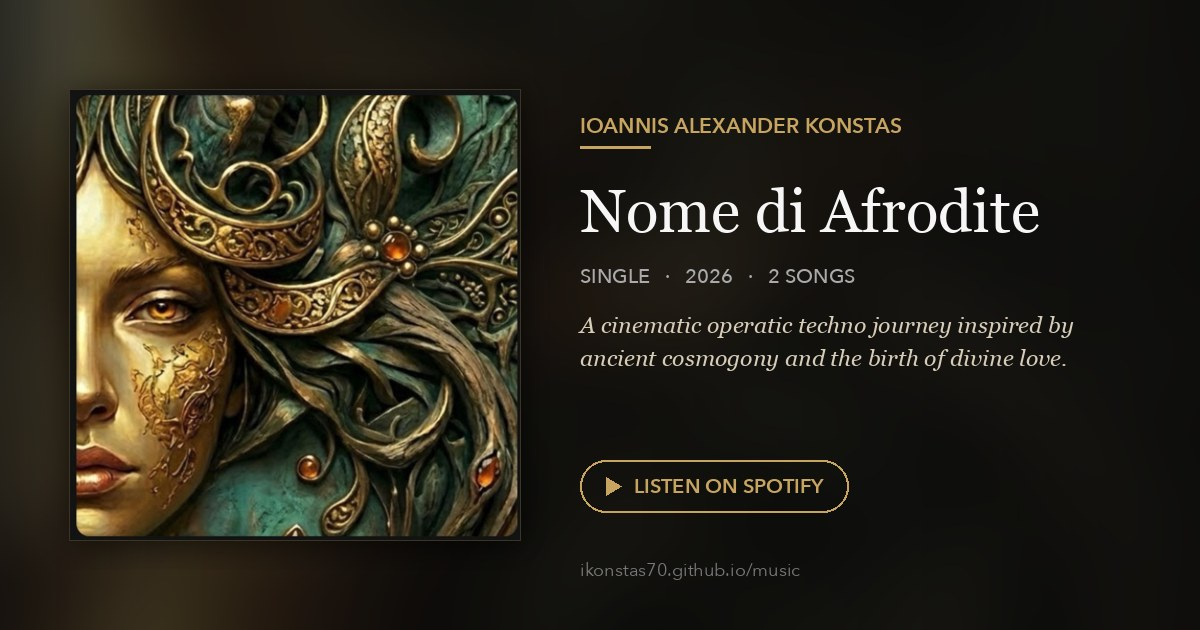
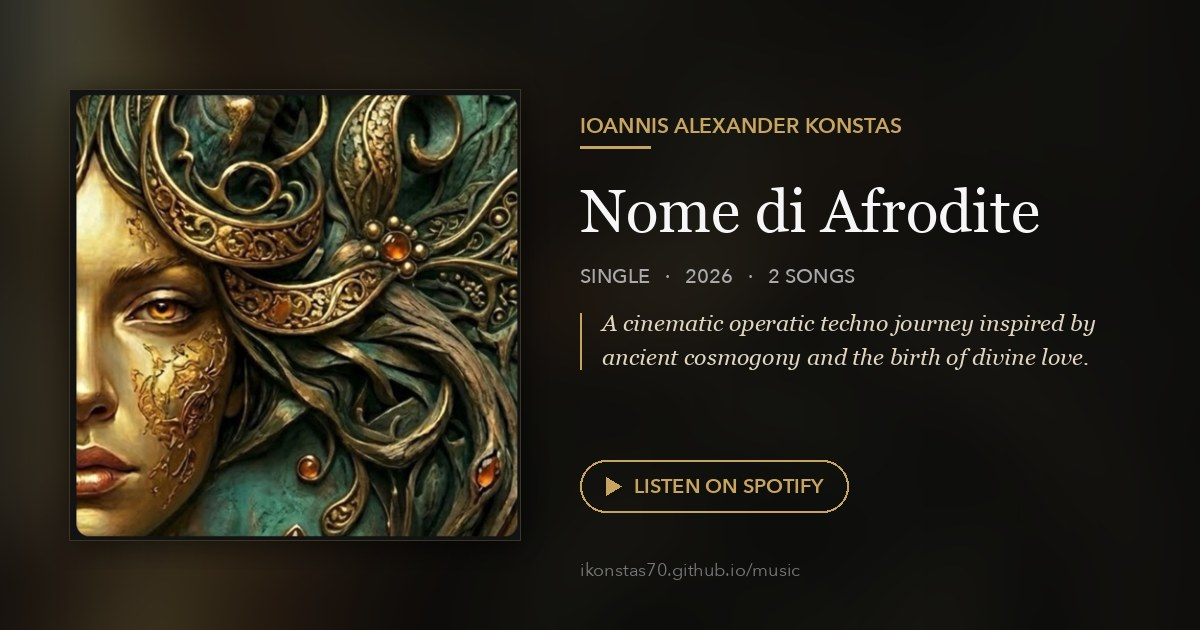
Nome di Afrodite card: gold rule beside the description

Changed region(s): [[0.4625, 0.4825, 0.925, 0.6032]]

diff --git a/tracks/o-amore-baroque-inspired--nome-di-afrodite.html b/tracks/o-amore-baroque-inspired--nome-di-afrodite.html
@@ -12,8 +12,8 @@
 <meta property="og:url" content="https://ikonstas70.github.io/music/tracks/o-amore-baroque-inspired--nome-di-afrodite.html">
 <meta property="og:title" content="O Amore - Baroque Inspired — Ioannis Alexander Konstas">
 <meta property="og:description" content="A cinematic operatic techno journey inspired by ancient cosmogony and the birth of divine love. O Amore - Baroque Inspired by Ioannis Alexander Konstas — stream on Spotify.">
-<meta property="og:image" content="https://ikonstas70.github.io/music/share/tracks/o-amore-baroque-inspired--nome-di-afrodite.jpg?v=2">
-<meta property="og:image:secure_url" content="https://ikonstas70.github.io/music/share/tracks/o-amore-baroque-inspired--nome-di-afrodite.jpg?v=2">
+<meta property="og:image" content="https://ikonstas70.github.io/music/share/tracks/o-amore-baroque-inspired--nome-di-afrodite.jpg?v=3">
+<meta property="og:image:secure_url" content="https://ikonstas70.github.io/music/share/tracks/o-amore-baroque-inspired--nome-di-afrodite.jpg?v=3">
 <meta property="og:image:type" content="image/jpeg">
 <meta property="og:image:width" content="1200">
 <meta property="og:image:height" content="630">
@@ -22,7 +22,7 @@
 <meta name="twitter:card" content="summary_large_image">
 <meta name="twitter:title" content="O Amore - Baroque Inspired — Ioannis Alexander Konstas">
 <meta name="twitter:description" content="A cinematic operatic techno journey inspired by ancient cosmogony and the birth of divine love. O Amore - Baroque Inspired by Ioannis Alexander Konstas — stream on Spotify.">
-<meta name="twitter:image" content="https://ikonstas70.github.io/music/share/tracks/o-amore-baroque-inspired--nome-di-afrodite.jpg?v=2">
+<meta name="twitter:image" content="https://ikonstas70.github.io/music/share/tracks/o-amore-baroque-inspired--nome-di-afrodite.jpg?v=3">
 
 <link rel="stylesheet" href="/music/style.css">
 </head>

diff --git a/tracks/o-amore-nome-di-afrodite.html b/tracks/o-amore-nome-di-afrodite.html
@@ -12,8 +12,8 @@
 <meta property="og:url" content="https://ikonstas70.github.io/music/tracks/o-amore-nome-di-afrodite.html">
 <meta property="og:title" content="O Amore (Nome di Afrodite) — Ioannis Alexander Konstas">
 <meta property="og:description" content="A cinematic operatic techno journey inspired by ancient cosmogony and the birth of divine love. O Amore (Nome di Afrodite) by Ioannis Alexander Konstas — stream on Spotify.">
-<meta property="og:image" content="https://ikonstas70.github.io/music/share/tracks/o-amore-nome-di-afrodite.jpg?v=2">
-<meta property="og:image:secure_url" content="https://ikonstas70.github.io/music/share/tracks/o-amore-nome-di-afrodite.jpg?v=2">
+<meta property="og:image" content="https://ikonstas70.github.io/music/share/tracks/o-amore-nome-di-afrodite.jpg?v=3">
+<meta property="og:image:secure_url" content="https://ikonstas70.github.io/music/share/tracks/o-amore-nome-di-afrodite.jpg?v=3">
 <meta property="og:image:type" content="image/jpeg">
 <meta property="og:image:width" content="1200">
 <meta property="og:image:height" content="630">
@@ -22,7 +22,7 @@
 <meta name="twitter:card" content="summary_large_image">
 <meta name="twitter:title" content="O Amore (Nome di Afrodite) — Ioannis Alexander Konstas">
 <meta name="twitter:description" content="A cinematic operatic techno journey inspired by ancient cosmogony and the birth of divine love. O Amore (Nome di Afrodite) by Ioannis Alexander Konstas — stream on Spotify.">
-<meta name="twitter:image" content="https://ikonstas70.github.io/music/share/tracks/o-amore-nome-di-afrodite.jpg?v=2">
+<meta name="twitter:image" content="https://ikonstas70.github.io/music/share/tracks/o-amore-nome-di-afrodite.jpg?v=3">
 
 <link rel="stylesheet" href="/music/style.css">
 </head>

diff --git a/albums/nome-di-afrodite.html b/albums/nome-di-afrodite.html
@@ -12,8 +12,8 @@
 <meta property="og:url" content="https://ikonstas70.github.io/music/albums/nome-di-afrodite.html">
 <meta property="og:title" content="Nome di Afrodite — Ioannis Alexander Konstas">
 <meta property="og:description" content="A cinematic operatic techno journey inspired by ancient cosmogony and the birth of divine love. Single by Ioannis Alexander Konstas — stream on Spotify.">
-<meta property="og:image" content="https://ikonstas70.github.io/music/share/nome-di-afrodite.jpg?v=2">
-<meta property="og:image:secure_url" content="https://ikonstas70.github.io/music/share/nome-di-afrodite.jpg?v=2">
+<meta property="og:image" content="https://ikonstas70.github.io/music/share/nome-di-afrodite.jpg?v=3">
+<meta property="og:image:secure_url" content="https://ikonstas70.github.io/music/share/nome-di-afrodite.jpg?v=3">
 <meta property="og:image:type" content="image/jpeg">
 <meta property="og:image:width" content="1200">
 <meta property="og:image:height" content="630">
@@ -22,7 +22,7 @@
 <meta name="twitter:card" content="summary_large_image">
 <meta name="twitter:title" content="Nome di Afrodite — Ioannis Alexander Konstas">
 <meta name="twitter:description" content="A cinematic operatic techno journey inspired by ancient cosmogony and the birth of divine love. Single by Ioannis Alexander Konstas — stream on Spotify.">
-<meta name="twitter:image" content="https://ikonstas70.github.io/music/share/nome-di-afrodite.jpg?v=2">
+<meta name="twitter:image" content="https://ikonstas70.github.io/music/share/nome-di-afrodite.jpg?v=3">
 
 <link rel="stylesheet" href="/music/style.css">
 </head>

diff --git a/tools/build_track_pages.py b/tools/build_track_pages.py
@@ -85,11 +85,13 @@ def share_card(title, meta, cover_path, out_path, lead=""):
     d.text((x, y), meta.upper().replace("·", "  ·  "), font=avenir(5, 20), fill=DIM)
     if lead:                                             # release description, italic, under the details line
         lead_font = ImageFont.truetype(GEORGIA.replace("Georgia.ttf", "Georgia Italic.ttf"), 23)
-        y += 48
-        for line in wrap(d, lead, lead_font, max_width)[:4]:
-            d.text((x, y), line, font=lead_font, fill=(214, 204, 184))
-            y += 33
-        y -= 20
+        y += 46
+        top = y
+        for line in wrap(d, lead, lead_font, max_width - 24)[:4]:
+            d.text((x + 22, y), line, font=lead_font, fill=(222, 212, 192))
+            y += 34
+        d.rectangle([x, top + 4, x + 1, y - 8], fill=GOLD)   # thin gold rule beside the quote
+        y -= 18
 
     py = max(y + 60, H - 170)
     label, pf = "LISTEN ON SPOTIFY", avenir(2, 20)
@@ -212,7 +214,7 @@ def main():
             share_card(title, card_meta, cover_path, os.path.join(ROOT, "share", "tracks", slug + ".jpg"), r["lead"])
             e = html.escape
             page = PAGE.format(
-                url=f"{SITE}/tracks/{slug}.html", img=f"{SITE}/share/tracks/{slug}.jpg" + ("?v=2" if r["lead"] else ""), artist=ARTIST_URL,
+                url=f"{SITE}/tracks/{slug}.html", img=f"{SITE}/share/tracks/{slug}.jpg" + ("?v=3" if r["lead"] else ""), artist=ARTIST_URL,
                 title=e(title), title_full=e(f"{title} — Ioannis Alexander Konstas"), desc=e(desc), album=e(r["title"]),
                 cover_file=cover_file, meta_html=meta_html, track_id=track_id, back_html=back_html, notes_html=r["notes"])
             with open(os.path.join(ROOT, "tracks", slug + ".html"), "w", encoding="utf-8") as f:
